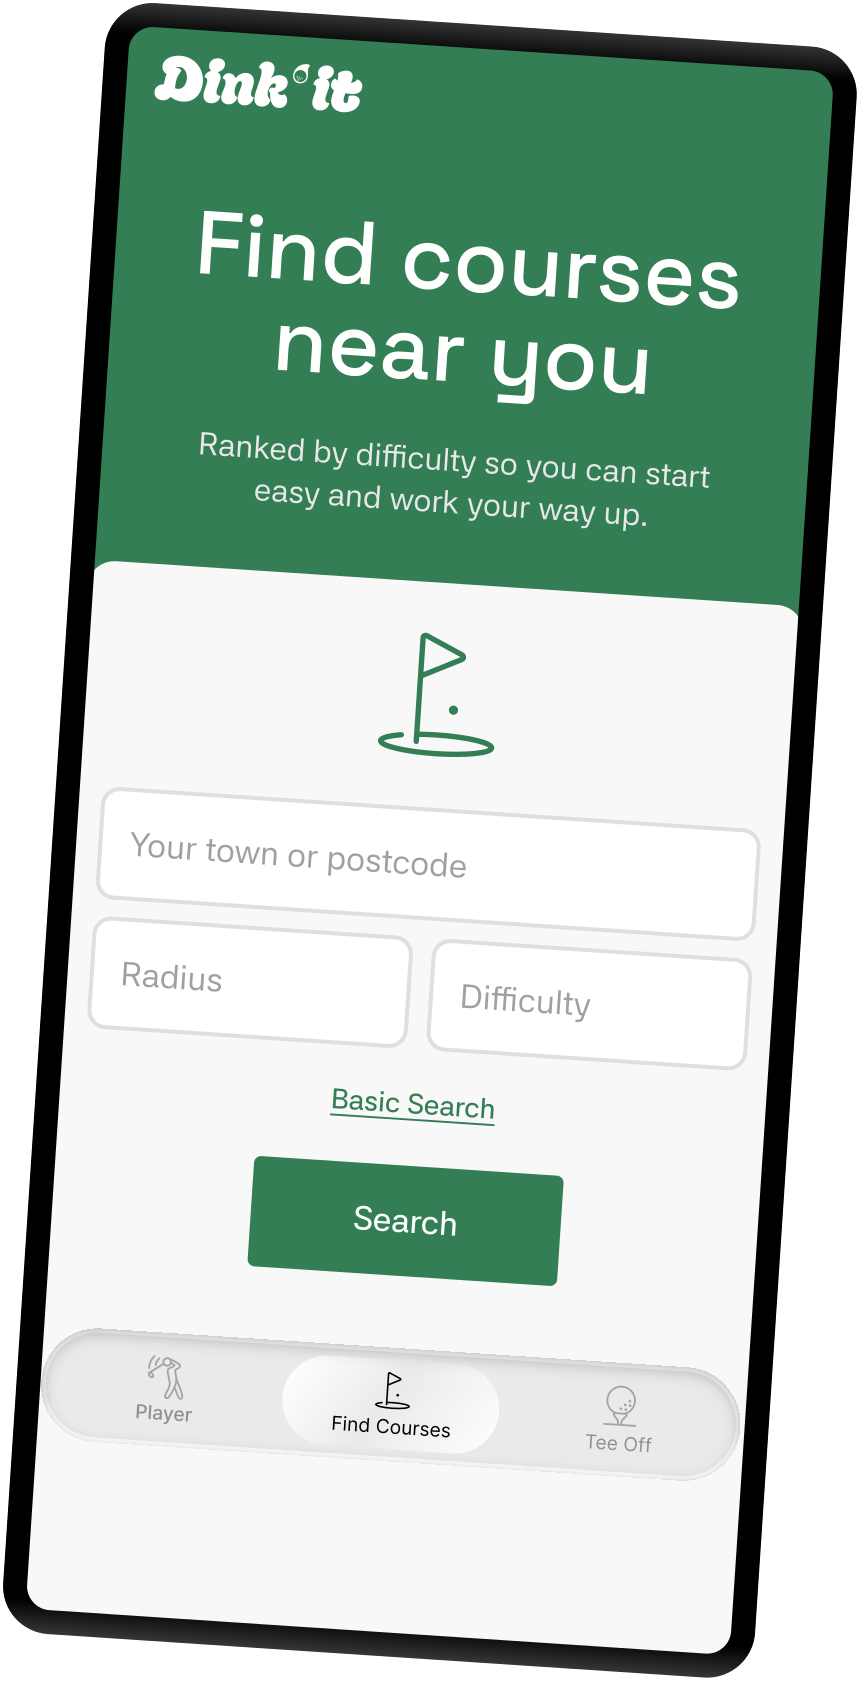
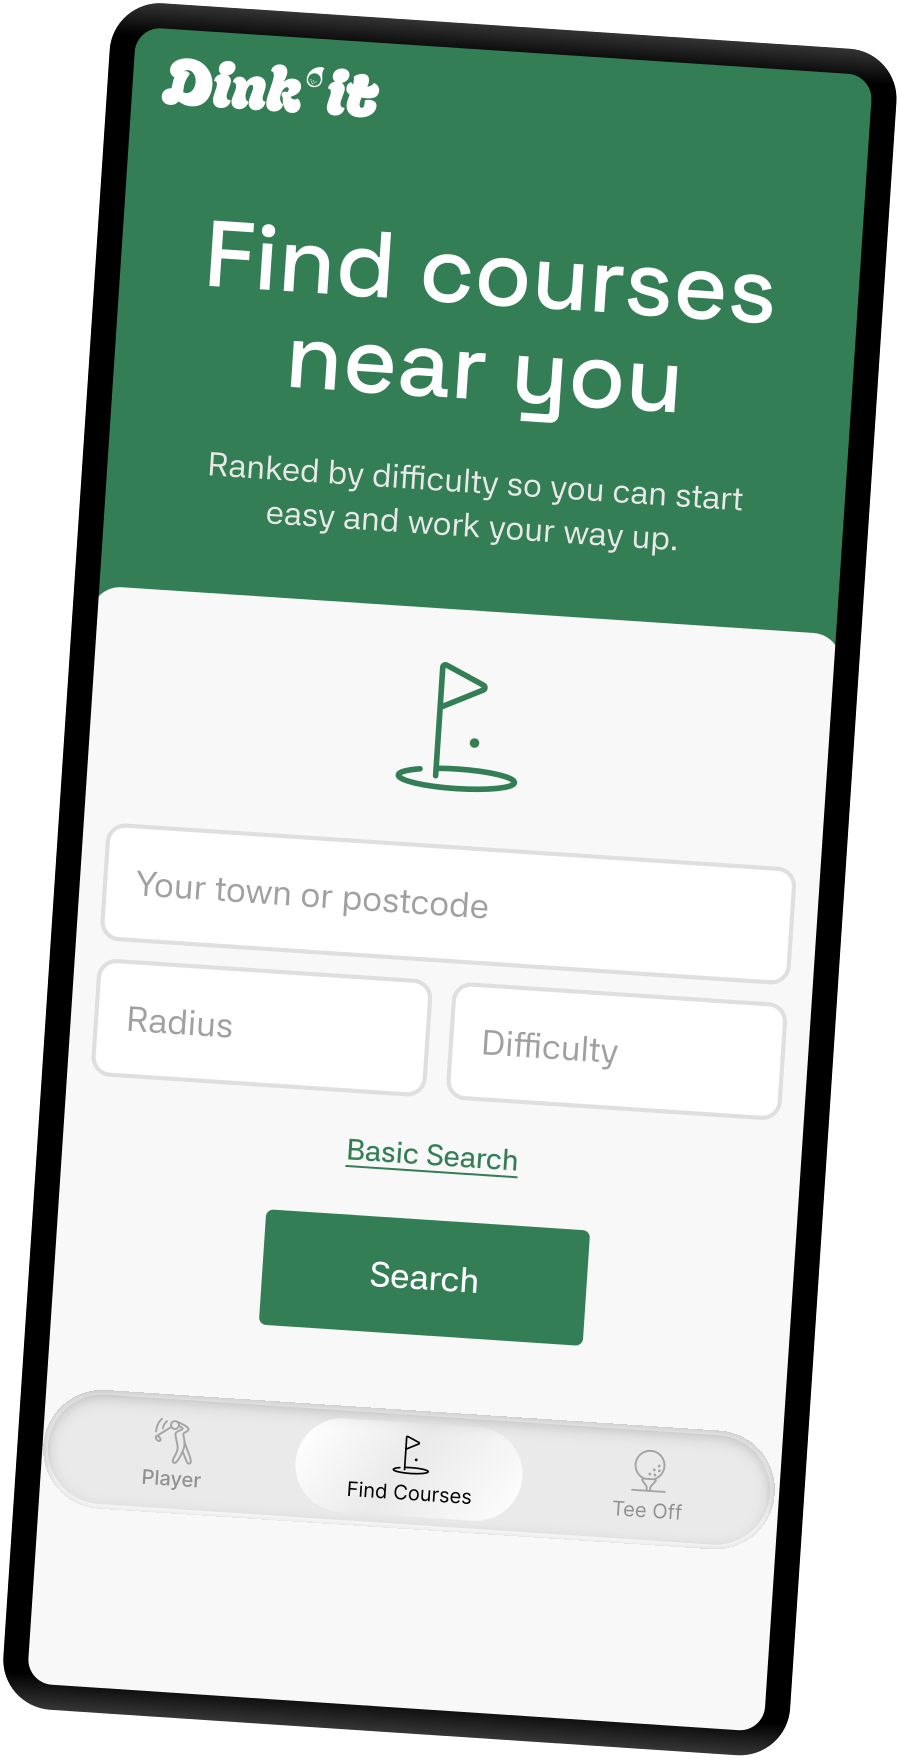
Fix mobile/desktop visual bugs and animation polish
- Remove redundant CSS border-radius clipping into hero phone corners
- Replace all four feature-carousel phone assets with proper SVG-derived
  exports (rotation baked in) to fix the mismatched/unrotated tracking
  phone and the black-box drop-shadow artifact on desktop
- Keep carousel phones permanently mounted with priority loading and a
  slide in/out transition instead of remounting on activation, removing
  the pop-in/faint-box flash on first swipe
- Center the waitlist form checkbox row
- Wire the pricing section's "Join waitlist" button to the footer form
  via a #waitlist anchor, and add smooth scroll-behavior for anchor jumps

diff --git a/src/components/feature-carousel-section.tsx b/src/components/feature-carousel-section.tsx
@@ -1,7 +1,7 @@
 "use client";
 
 import Image from "next/image";
-import { useEffect, useRef, useState } from "react";
+import { useEffect, useRef, useState, type CSSProperties } from "react";
 
 // Each slide carries its own scene: a background "box" photo cropped from a
 // raw source via Figma's exact percent crop, plus one or more cloud sprites
@@ -22,7 +22,7 @@ const SLIDES = [
     heading: "Easy GPS tracking, straight from your phone",
     body: "Stand by your ball and tap. Our app uses your phone's GPS to log every shot. No expensive hardware attachments required.",
     phone: "/images/feature-phone-tracking.png",
-    phoneAspect: "860 / 1861",
+    phoneAspect: "900 / 1746",
     sceneBox: {
       src: "/images/feature-scene-box.jpg",
       mobileCrop: { top: "-18.68%", left: "-6.43%", width: "157.14%", height: "119.26%" } as Crop,
@@ -48,7 +48,7 @@ const SLIDES = [
     heading: "Play and compare with friends.",
     body: "Connect with your regular group easily. Compare your stats in one central place. Keep the friendly competition going between rounds.",
     phone: "/images/feature-phone-friends.png",
-    phoneAspect: "860 / 1680",
+    phoneAspect: "900 / 1758",
     sceneBox: {
       src: "/images/feature-scene-box-friends.png",
       mobileCrop: { top: "-5.5%", left: "-6.36%", width: "124.13%", height: "110.24%" } as Crop,
@@ -68,7 +68,7 @@ const SLIDES = [
     heading: "Find your next course.",
     body: "Discover highly rated courses right near you. Get accurate local recommendations instantly. Explore new fairways and plan your next weekend round.",
     phone: "/images/feature-phone-courses.png",
-    phoneAspect: "860 / 1684",
+    phoneAspect: "900 / 1762",
     sceneBox: {
       src: "/images/feature-scene-box-courses.png",
       mobileCrop: { top: "-7.4%", left: "-14.9%", width: "128.68%", height: "114.61%" } as Crop,
@@ -88,7 +88,7 @@ const SLIDES = [
     heading: "Unlock your full data.",
     body: "Upgrade to access deeper performance metrics. Review detailed tendencies to lower your score. Get serious tools to fast-track your improvement.",
     phone: "/images/feature-phone-stats.png",
-    phoneAspect: "872 / 1684",
+    phoneAspect: "900 / 1738",
     sceneBox: {
       src: "/images/feature-scene-box-stats.png",
       mobileCrop: { top: "-9.45%", left: "-29.28%", width: "164.42%", height: "109.46%" } as Crop,
@@ -109,6 +109,32 @@ const ROTATE_MS = 5000;
 
 // Unlike the hero, only the phone moves here — the scene/clouds stay put.
 const PARALLAX_PHONE_SPEED = 0.08;
+
+// All four phone exports share almost the same aspect ratio (~0.51-0.52) —
+// a single shared box avoids the container itself resizing/animating when
+// the active slide changes, and the ~1% per-slide difference is invisible
+// stretched via object-fill.
+const PHONE_ASPECT = "900 / 1751";
+
+// Keeps every slide's phone mounted at all times (so images are fetched
+// once up front, not on-demand when a slide first becomes active — that
+// on-demand fetch was the "pop in" users saw on first swipe) and cross-fades
+// + slides horizontally between the active and inactive slots.
+function phoneSlideStyle(slideIndex: number, activeIndex: number, total: number): CSSProperties {
+  let diff = (slideIndex - activeIndex) % total;
+  if (diff > total / 2) diff -= total;
+  if (diff < -total / 2) diff += total;
+
+  if (diff === 0) {
+    return { transform: "translateX(0%)", opacity: 1, zIndex: 2 };
+  }
+  return {
+    transform: `translateX(${diff > 0 ? 14 : -14}%)`,
+    opacity: 0,
+    zIndex: 1,
+    pointerEvents: "none",
+  };
+}
 
 export function FeatureCarouselSection() {
   const [index, setIndex] = useState(0);
@@ -350,17 +376,24 @@ export function FeatureCarouselSection() {
         >
           <div
             className="absolute -translate-x-1/2"
-            style={{ left: "50%", top: 0, height: "68.8%", aspectRatio: active.phoneAspect }}
+            style={{ left: "50%", top: 0, height: "68.8%", aspectRatio: PHONE_ASPECT }}
           >
-            <div key={`phone-mobile-${index}`} className="animate-hero-fade relative h-full w-full">
-              <Image
-                src={active.phone}
-                alt=""
-                fill
-                sizes="200px"
-                className="object-fill drop-shadow-[0px_16px_32px_rgba(0,0,0,0.25)]"
-              />
-            </div>
+            {SLIDES.map((slide, i) => (
+              <div
+                key={slide.phone}
+                className="absolute inset-0 transition-all duration-700 ease-[cubic-bezier(0.22,1,0.36,1)]"
+                style={phoneSlideStyle(i, index, SLIDES.length)}
+              >
+                <Image
+                  src={slide.phone}
+                  alt=""
+                  fill
+                  priority
+                  sizes="200px"
+                  className="object-fill drop-shadow-[0px_16px_32px_rgba(0,0,0,0.25)]"
+                />
+              </div>
+            ))}
           </div>
         </div>
       </div>
@@ -443,17 +476,24 @@ export function FeatureCarouselSection() {
         <div
           ref={phoneLayerRef}
           className="pointer-events-none absolute top-1/2 left-1/2 z-20 h-[92%] -translate-x-1/2 -translate-y-1/2 rotate-[4deg]"
-          style={{ aspectRatio: active.phoneAspect }}
+          style={{ aspectRatio: PHONE_ASPECT }}
         >
-          <div key={`phone-desktop-${index}`} className="animate-hero-fade relative h-full w-full">
-            <Image
-              src={active.phone}
-              alt=""
-              fill
-              sizes="220px"
-              className="object-fill drop-shadow-[0px_20px_40px_rgba(0,0,0,0.35)]"
-            />
-          </div>
+          {SLIDES.map((slide, i) => (
+            <div
+              key={slide.phone}
+              className="absolute inset-0 transition-all duration-700 ease-[cubic-bezier(0.22,1,0.36,1)]"
+              style={phoneSlideStyle(i, index, SLIDES.length)}
+            >
+              <Image
+                src={slide.phone}
+                alt=""
+                fill
+                priority
+                sizes="220px"
+                className="object-fill drop-shadow-[0px_20px_40px_rgba(0,0,0,0.35)]"
+              />
+            </div>
+          ))}
         </div>
       </div>
     </section>

diff --git a/src/components/hero-image-section.tsx b/src/components/hero-image-section.tsx
@@ -307,7 +307,7 @@ export function HeroImageSection() {
               alt=""
               fill
               sizes="310px"
-              className="rounded-[24px] object-contain drop-shadow-[0px_20px_40px_rgba(0,0,0,0.45)]"
+              className="object-contain drop-shadow-[0px_20px_40px_rgba(0,0,0,0.45)]"
             />
           </div>
         );
@@ -330,7 +330,7 @@ export function HeroImageSection() {
               alt=""
               fill
               sizes="160px"
-              className="rounded-[16px] object-contain drop-shadow-[0px_14px_28px_rgba(0,0,0,0.4)]"
+              className="object-contain drop-shadow-[0px_14px_28px_rgba(0,0,0,0.4)]"
             />
           </div>
         );

diff --git a/src/components/site-footer.tsx b/src/components/site-footer.tsx
@@ -4,7 +4,10 @@ import { WaitlistForm } from "@/components/waitlist-form";
 export function FooterContent() {
   return (
     <div className="w-full px-6 pt-16 pb-[140px] sm:px-10 sm:pb-[170px] md:px-16 md:pb-[210px]">
-      <div className="mx-auto flex w-full max-w-[503px] flex-col items-center gap-8 text-center sm:gap-[22px]">
+      <div
+        id="waitlist"
+        className="mx-auto flex w-full max-w-[503px] flex-col items-center gap-8 text-center sm:gap-[22px]"
+      >
         <div className="h-[38px] w-[98px] sm:h-[46px] sm:w-[119px]">
           <img
             src="/images/dinkit-logo-dark.svg"

diff --git a/src/components/waitlist-form.tsx b/src/components/waitlist-form.tsx
@@ -82,7 +82,7 @@ export function WaitlistForm({
           </div>
 
           <label
-            className={`flex items-center gap-3 pb-[22px] text-[14px] [font-family:var(--font-42dot-sans)] transition-opacity duration-500 ${
+            className={`flex items-center justify-center gap-3 pb-[22px] text-[14px] [font-family:var(--font-42dot-sans)] transition-opacity duration-500 ${
               theme === "light" ? "text-[#2d2d2d]" : "text-white"
             } ${open ? "opacity-100 delay-150" : "opacity-0"}`}
           >

diff --git a/src/app/globals.css b/src/app/globals.css
@@ -14,6 +14,7 @@
 
 html {
   overflow-x: hidden;
+  scroll-behavior: smooth;
 }
 
 body {
